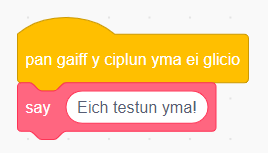
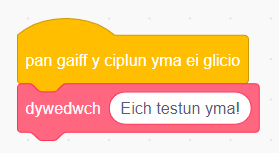
Update translation
Welsh

Changed region(s): [[0.0597, 0.1046, 0.9552, 0.9412], [0.0896, 0.1569, 0.1194, 0.183]]

diff --git a/cy-GB/step_1.md b/cy-GB/step_1.md
@@ -1,6 +1,6 @@
 ### Gwneud bloc
 
-+ Clicia ar **Fy Mlociau**, ac yna clicia **Gwneud Bloc**.
++ Clicia ar **Fy Mlociau**, ac yna clicia **Creu Bloc**.
 
 ![Fy Mlociau](images/my-blocks-annotated.png)
 
